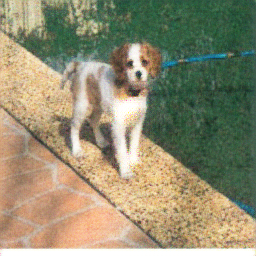
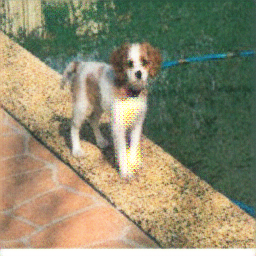
add dist loss

diff --git a/MT-ATTACK-Torch/models/mt_gan_model.py b/MT-ATTACK-Torch/models/mt_gan_model.py
@@ -146,6 +146,8 @@ class MtGANModel(BaseModel):
             parser.add_argument('--ori', type=int, default=0, help='ori label')
             parser.add_argument('--target', type=int, default=0, help='target label')
             parser.add_argument('--lambda_ATTACK_B', type=float, default=0.0, help='weight for ATTACK loss for adversarial attack in fake B')
+            parser.add_argument('--lambda_dist', type=float, default=0.0, help='weight for distance between fake and real image')
+
         return parser
 
     def __init__(self, opt):
@@ -217,6 +219,7 @@ class MtGANModel(BaseModel):
         lambda_A = self.opt.lambda_A
         lambda_B = self.opt.lambda_B
         lambda_att_B = self.opt.lambda_ATTACK_B
+        lambda_dist = self.opt.lambda_dist
         if lambda_idt > 0:
             
             self.loss_idt_A = self.criterionIdt(idt_A, real_B) * lambda_B * lambda_idt
@@ -234,9 +237,9 @@ class MtGANModel(BaseModel):
         
         self.loss_cycle_B = self.criterionCycle(rec_B, real_B) * lambda_B
 
-        self.l2_B = self.criterionDist(fake_B, real_B)
+        self.l2_B = self.criterionDist(fake_B, real_B) * lambda_dist
 
-        self.l2_A = self.criterionDist(fake_A, real_A)
+        self.l2_A = self.criterionDist(fake_A, real_A) * lambda_dist
         
         ######
         # print("self.fake_B shape:", self.fake_B.shape)
@@ -344,6 +347,8 @@ class MtGANModel(BaseModel):
                 loss['GA/loss_cycle_B'] = self.loss_cycle_B.item()
                 loss['G/loss_ATTACK'] = self.loss_G_ATTACK.item()
                 loss['G/loss_idt_B'] = self.loss_idt_B.item()
+                loss['G/loss_dist_B'] = self.l2_B.item()
+                loss['G/loss_dist_A'] = self.l2_A.item()
                 
                 if (k) % 5 == 0:
                     log = "Intra task training, test_dataset_indx [{}], Iteration [{}/{}/{}]".format(test_dataset_indx, total_iters, k, self.update_step)
@@ -425,6 +430,7 @@ class MtGANModel(BaseModel):
         lambda_idt = self.opt.lambda_identity
         lambda_A = self.opt.lambda_A
         lambda_B = self.opt.lambda_B
+        lambda_dist = self.opt.lambda_dist
         for i in range(task_num):
             self.real_A = self.real_A_support[i]
             self.real_B = self.real_B_support[i]
@@ -473,9 +479,9 @@ class MtGANModel(BaseModel):
                 
                 self.loss_cycle_B = self.criterionCycle(self.rec_B, self.real_B) * lambda_B
                 
-                self.l2_B = self.criterionIdt(self.fake_B, self.real_B)
+                self.l2_B = self.criterionIdt(self.fake_B, self.real_B) * lambda_dist
 
-                self.l2_A = self.criterionIdt(self.fake_A, self.real_A)
+                self.l2_A = self.criterionIdt(self.fake_A, self.real_A) * lambda_dist
                 
                 self.loss_G = self.loss_G_ATTACK + self.loss_G_A + self.loss_G_B + self.loss_cycle_A + self.loss_cycle_B + self.loss_idt_A + self.loss_idt_B + self.l2_A + self.l2_B
                 self.loss_G.backward()
@@ -503,6 +509,8 @@ class MtGANModel(BaseModel):
                     loss['MTGAN/loss_G_ATTACK'] = self.loss_G_ATTACK.item()
                     loss['MTGA/loss_cycle_B'] = self.loss_cycle_B.item()
                     loss['MTGB/loss_idt_B'] = self.loss_idt_B.item()
+                    loss['MTG/loss_dist_B'] = self.l2_B.item()
+                    loss['MTG/loss_dist_A'] = self.l2_A.item()
            
                     
                     
@@ -511,7 +519,7 @@ class MtGANModel(BaseModel):
                         log += ", {}: {:.4f}".format(tag, value)
                         # self.logger.scalar_summary(tag, value, k)
                     print(log)
-                if (k+1) % 500 == 0 :
+                if (k+1) % (self.finetune_step / 10) == 0 :
                     self.fake_B_q = netG_A(self.real_A_q) 
                     self.rec_A_q = netG_B(self.fake_B_q)  
                     self.fake_A_q = netG_B(self.real_B_q)  
